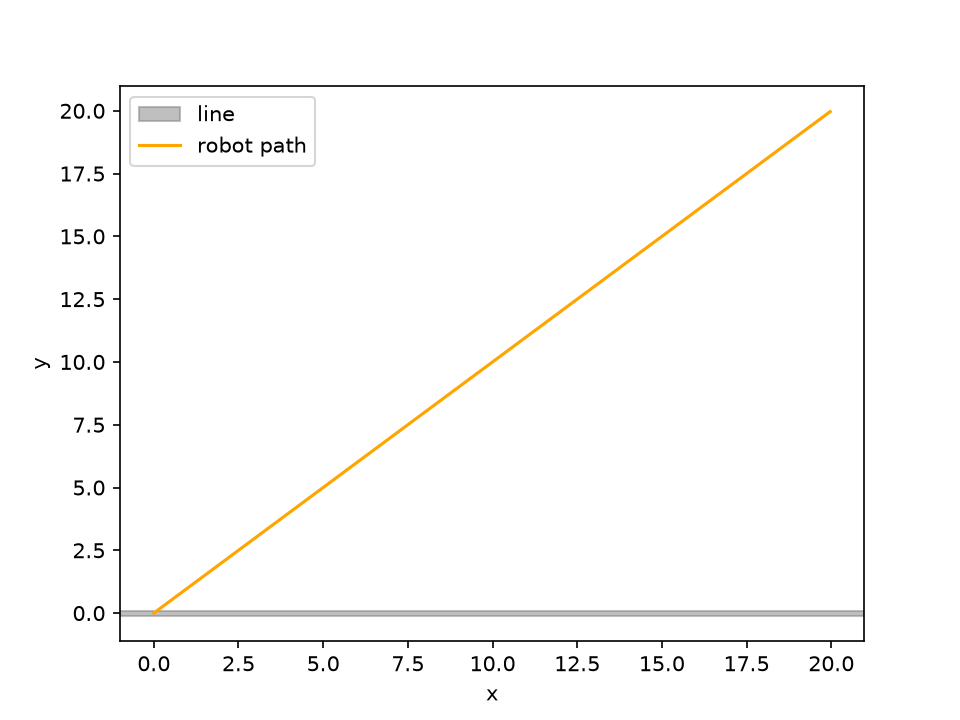
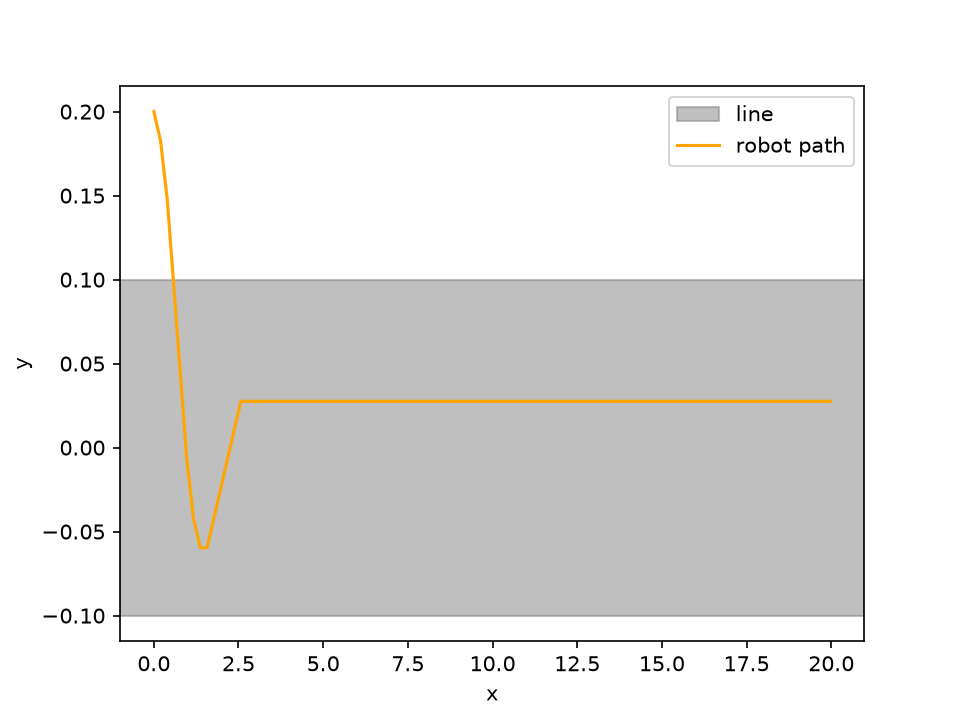
Add README

diff --git a/README.md b/README.md
@@ -1,0 +1,55 @@
+# Line-Following Robot Simulator
+
+A small Python simulation of a robot that follows a line using two sensors.
+No hardware needed. It runs on the screen and draws the path it took.
+
+![Path of the robot settling onto the line](export/path.png)
+
+## What it does
+
+The robot starts 0.2 above a straight line. Two sensors at the front check
+if the floor under them is the line. A simple rule turns the robot toward
+the line. The picture shows the robot dipping down, overshooting a little,
+then settling on the line.
+
+## How to run
+
+```bash
+git clone git@github.com:playfu1-d0ubt/line-following-robot.git
+cd line-following-robot
+python3 -m venv venv
+source venv/bin/activate
+pip install -r requirements.txt
+python main.py
+```
+
+This prints the robot's path and saves a picture to `export/path.png`.
+
+To run the tests:
+
+```bash
+python -m pytest
+```
+
+## How it works
+
+- `robot.py`: position, heading, and moving.
+- `line.py`: the strip of tape on the floor.
+- `sensor.py`: where a sensor sits and if it is over the line.
+- `controller.py`: the steering rule.
+- `simulate.py`: runs the robot one moment at a time.
+- `plot.py`: draws the path.
+
+## Limitations
+
+- The line is straight. No curves yet.
+- Steering is a simple rule, not PID. The robot settles near the line,
+  not exactly on the middle.
+- The picture stretches the y axis, so the wobble looks bigger than it is.
+- No wheels, friction or sensor noise. It is a learning simulation.
+
+## What I learned
+
+- Argument order matters. I swapped `left` and `right` in `tick`, and the robot steered away from the line. Python matches arguments by position, not by name.
+- I used `cos` and `sin` for the first time in code, to move and turn the robot. Degrees must become radians first.
+- One wrong sign makes the robot run away. Tests now catch that.
